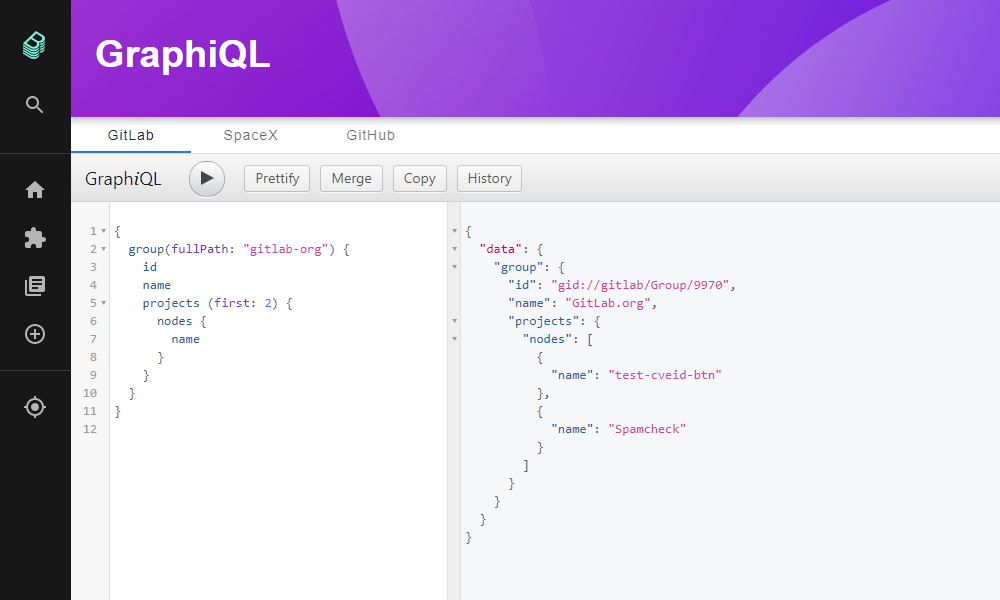
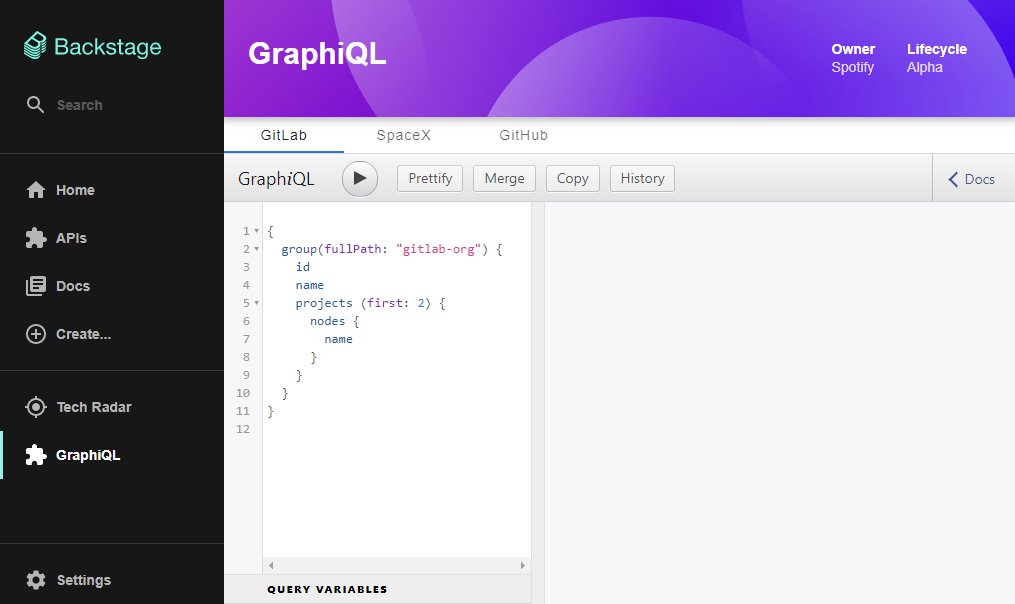
add instructions for adding GraphiQL link to sidebar

diff --git a/content/backstage/plugins/graphiQL.md b/content/backstage/plugins/graphiQL.md
@@ -66,7 +66,13 @@ gettingStarted:
         })
       ];
 
-  - intro: Navigate to youdomain.com/graphiql, select the tab for your API and start submitting GraphQL queries.
+  - intro: Add a link to the sidebar.
+    language: typescript
+    code: |
+      // packages/app/src/components/Root/Root.tsx
+      <SidebarItem icon={ExtensionIcon} to="/graphiql" text="GraphiQL" />
+
+  - intro: Select the GraphiQL link on the sidebar, select an API tab and start submitting GraphQL queries.
 
 ---
 
